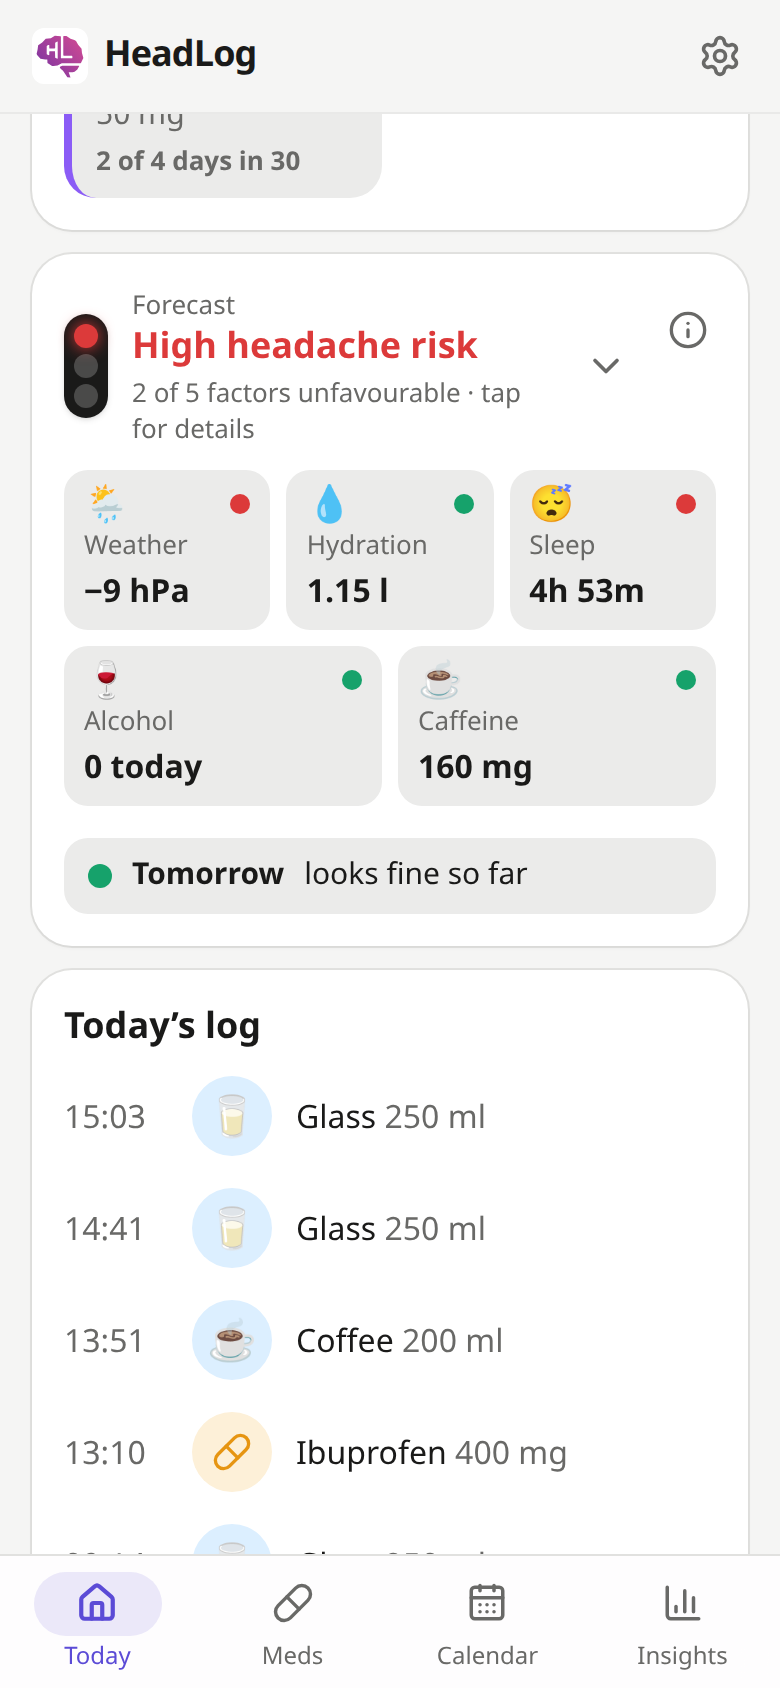
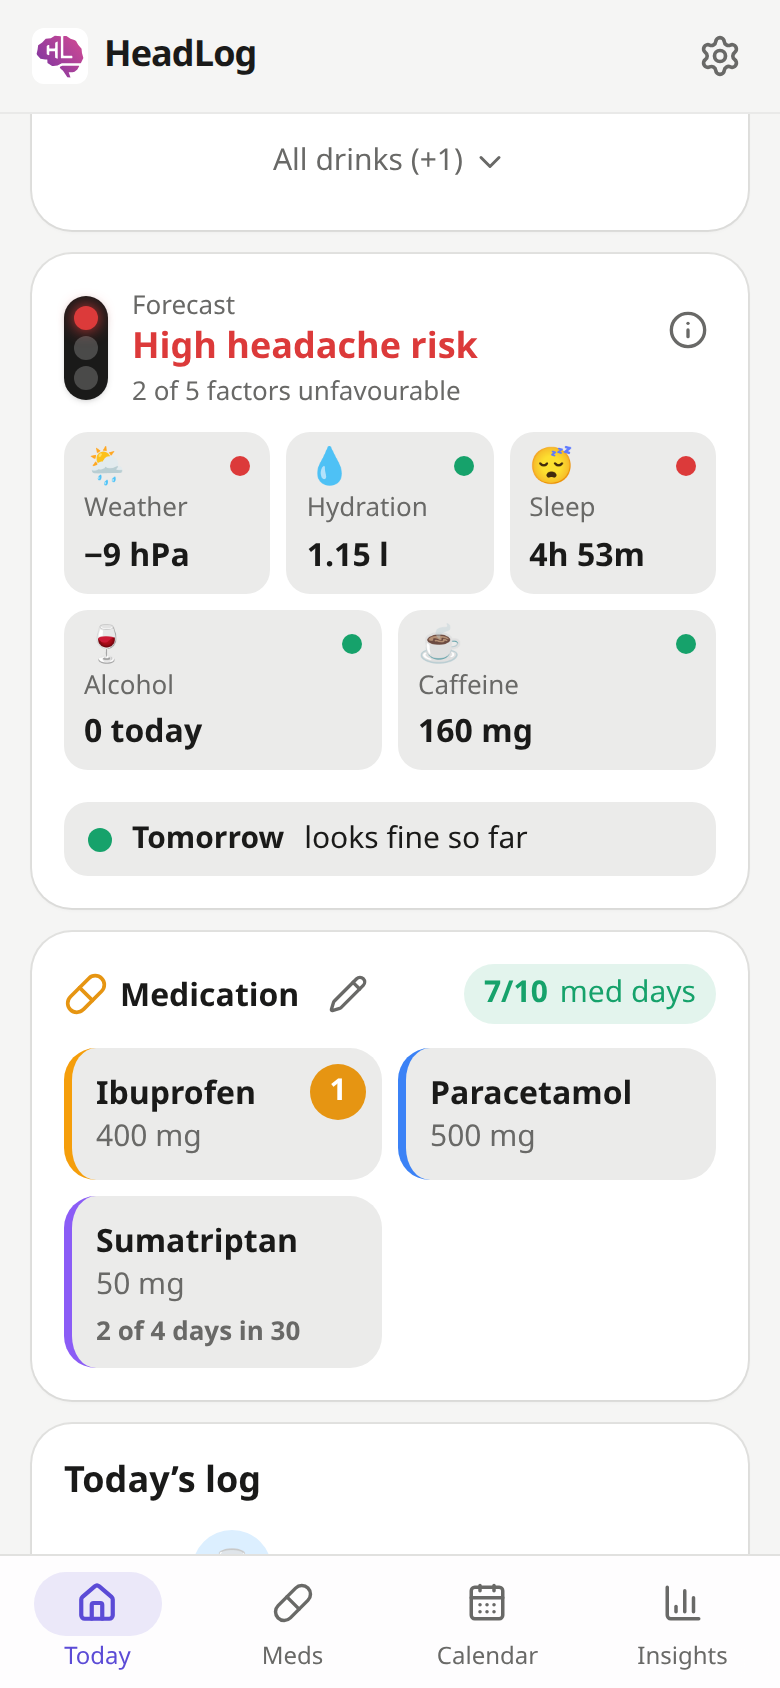
Shorter headache button hint, docs and screenshots for the reworked Today

diff --git a/src/lib/i18n/de.ts b/src/lib/i18n/de.ts
@@ -23,7 +23,7 @@ export const de: Record<keyof typeof en, string> = {
   'today.moreDrinks': 'Alle Getränke (+{n})',
   'today.fewerDrinks': 'Weniger Getränke',
   'today.start': 'Kopfschmerz erfassen',
-  'today.startHint': 'Tippen, wenn es losgeht. Zeit und Details später änderbar.',
+  'today.startHint': 'Zeit und Details später änderbar.',
   'today.since': 'seit',
   'today.ongoing': 'Kopfschmerz läuft',
   'today.end': 'Kopfschmerz ist weg',

diff --git a/src/lib/i18n/en.ts b/src/lib/i18n/en.ts
@@ -21,7 +21,7 @@ export const en = {
   'today.moreDrinks': 'All drinks (+{n})',
   'today.fewerDrinks': 'Fewer drinks',
   'today.start': 'Track headache',
-  'today.startHint': 'Tap when it begins. Time and details can be changed later.',
+  'today.startHint': 'Time and details can be changed later.',
   'today.since': 'since',
   'today.ongoing': 'Ongoing headache',
   'today.end': 'Headache is gone',

diff --git a/README.md b/README.md
@@ -18,12 +18,12 @@
 
 ## Features
 
-- **One tap when it starts.** A big button starts a headache with the current time. A live timer runs until you tap "Headache is gone". Intensity (1 to 10), symptoms and triggers (nausea, aura, stress, poor sleep, ...) and a note are optional and can be added any time.
+- **One tap when it starts.** A big button starts a headache with the current time; the time can be changed in the entry. A live timer runs until you tap "Headache is gone". Intensity (1 to 10), symptoms and triggers (nausea, aura, stress, poor sleep, ...) and a note are optional and can be added any time.
 - **Your medication as buttons.** Define your own list with name, dose, type (pain reliever, triptan, combination, opioid, preventive, other) and color. One tap logs an intake. Afterwards you can rate whether it helped.
 - **Hydration.** Your own drink buttons (glass 250 ml, bottle 700 ml, coffee, tea, ...) and a daily goal with a progress bar, right at the top of Today.
 - **Calendar.** Headache days shaded by intensity, dots for medication days and days you hit your water goal. Tap a day to see, edit or add entries after the fact.
 - **10/20 rule.** Take acute headache medication on fewer than 10 out of any 30 days, as the German migraine guideline (DGN/DMKG) advises. HeadLog shows your current count, what taking something today would mean, when the next medication day drops out of the window, a 90-day rolling trend, and the monthly overuse thresholds per medication type (ICHD-3). Preventive medication doesn't count. The limit is configurable.
-- **Forecast traffic light** on Today with five factors as tiles: weather (a pressure drop of more than 5 hPa from today to tomorrow), hydration (yesterday, and today against your pace), last night's sleep (under 5 hours, or asleep under 85 % of the night), alcohol and a drop in caffeine. Green with no unfavourable factor, yellow with one, red with two or more. Tap for every number, a tip and the rule behind each factor. Each rule's (i) names its studies, how strong the evidence is, and lists the full references.
+- **Forecast traffic light** on Today with five factors as tiles: weather (a pressure drop of more than 5 hPa from today to tomorrow), hydration (yesterday, and today against your pace), last night's sleep (under 5 hours, or asleep under 85 % of the night), alcohol and a drop in caffeine. Green with no unfavourable factor, yellow with one, red with two or more. Tap a tile for its chart, the key numbers and a tip; its (i) gives the rule, what studies show and the full references.
 - **Tomorrow's risk** as a row under the tiles, and an optional evening notification when tomorrow does not look green. It counts only what matters for tomorrow: a pressure drop from tomorrow to the day after, too little to drink today and alcohol today. Settings shows what tonight's warning will say.
 - **Weather and sleep:** daily weather at your home town (Open-Meteo, only the town's coordinates are sent) and a sleep estimate from screen activity, with wake breaks. Each morning Today shows last night with Looks right / Correct until it is confirmed, and an optional notification asks the same. The sleep editor is a timeline: drag falling asleep and waking up, tap a wake break to edit it magnified, and see when the screen was on.
 - **Insights** over 3, 7, 30, 90 or 365 days: a timeline of headaches, hydration, sleep and air pressure, hour by hour for 3 and 7 days, running on into the pressure forecast. Tap or drag across it to see the values at that moment and what happened around it. Orange marks the days before a pressure drop. Also a comparison of headache days with other days, headache and medication days per month, average duration and intensity, weekdays and times of day headaches start, how well each medication helped, and your most common triggers.

diff --git a/CLAUDE.md b/CLAUDE.md
@@ -21,7 +21,7 @@ The Bun version is pinned in `packageManager` in `package.json`; CI uses the sam
 ## Layout
 
 - `src/routes/+page.svelte`: the whole app shell. Swipeable tabs (CSS scroll snap), bottom nav, Android back button, app lifecycle (load, Gist sync on leave, reminder rescheduling in an `$effect`, notification button handling).
-- `src/lib/components/`: tabs `TodayTab` (built from snippets; medication moves above hydration during a headache), `MedsTab` (10/20 rule, personal limits, how well each medication works, recent intakes, overuse limits; single days live in the calendar), `CalendarTab` (+ `DaySheet`), `InsightsTab` (sections Overview, Connections, Hydration, Patterns; `TimelineChart`, `ComparisonChart`). Sheets: `SettingsSheet`, `MedListSheet` and `DrinkListSheet` (the lists and the hydration goal, opened from Today, Meds and Settings), `ReportSheet`, `EditorSheet` (edit any episode, intake, drink or night), `VersionsSheet`. Cards: `PrognosisCard`, `WelcomeCard` (until the first entry). Shared: `Sheet` (optional `info` puts an (i) button next to the title), `InfoButton` and `InfoPopover` (explanations behind an (i) button), `CardHeading` (card title with an optional (i) button), `Toasts`, `Celebration`, `BarChart`, `IntensityPicker`, `RuleBadge`, `OrderButtons`.
+- `src/lib/components/`: tabs `TodayTab` (built from snippets; without a headache: button, hydration, forecast, medication, log; during one: headache, medication, hydration, forecast, log), `MedsTab` (10/20 rule, personal limits, how well each medication works, recent intakes, overuse limits; single days live in the calendar), `CalendarTab` (+ `DaySheet`), `InsightsTab` (sections Overview, Connections, Hydration, Patterns; `TimelineChart`, `ComparisonChart`). Sheets: `SettingsSheet`, `MedListSheet` and `DrinkListSheet` (the lists and the hydration goal, opened from Today, Meds and Settings), `ReportSheet`, `EditorSheet` (edit any episode, intake, drink or night), `VersionsSheet`. Cards: `PrognosisCard`, `WelcomeCard` (until the first entry). Shared: `Sheet` (optional `info` puts an (i) button next to the title), `InfoButton` and `InfoPopover` (explanations behind an (i) button), `CardHeading` (card title with an optional (i) button), `Toasts`, `Celebration`, `BarChart`, `IntensityPicker`, `RuleBadge`, `OrderButtons`.
 - Things go where they are used: list editing next to the list, reports in Insights, settings only for what has no better home.
 - `src/lib/db.ts`: Dexie schema, entity types (`Relief`, `Draft`), default medication and drink lists, `seed`.
 - `src/lib/medication.ts`: medication classes (`CATEGORIES`, `MedCategory`, `ACUTE_CATEGORIES`), the ICHD-3 limits, `guessCategory`, `fromMedication`. `drinks.ts`: `CAFFEINE`, `hydrationMl`, `fromPreset`. `colors.ts`: `MED_COLORS`, `medColor`, `intakeColor`.

diff --git a/CHANGELOG.md b/CHANGELOG.md
@@ -2,6 +2,14 @@
 
 ## [Unreleased]
 
+### Changed
+
+- The forecast card has no dropdown any more. Each tile opens its sheet with the status and reason in one line, a one-line tip when unfavourable, a chart with a y axis and the key numbers. The Tomorrow row opens Tomorrow's risk with its three checks.
+- Every info box (i) of the forecast, the sleep editor and the 10/20 rule has sections: Rule, What studies show and Sources.
+- The headache button reads "Track headache" with "Time and details can be changed later." The "Started earlier?" link is gone; the time is changed in the entry.
+- Order on Today: without a headache the button, hydration, forecast, medication and the log; during a headache the headache, medication, hydration, forecast and the log.
+- The drink buttons show one row; "All drinks" folds out the rest.
+
 ## [0.30.0] - 2026-11-09
 
 ### Added
